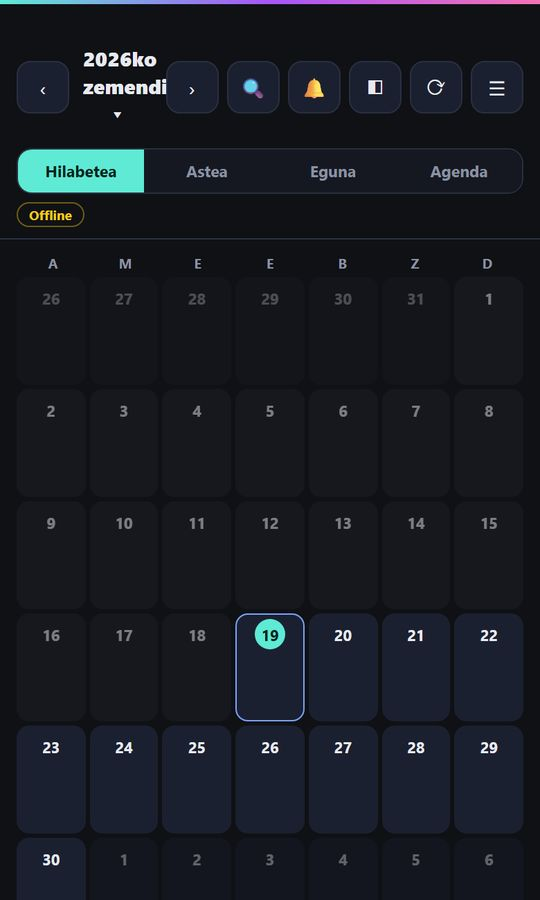
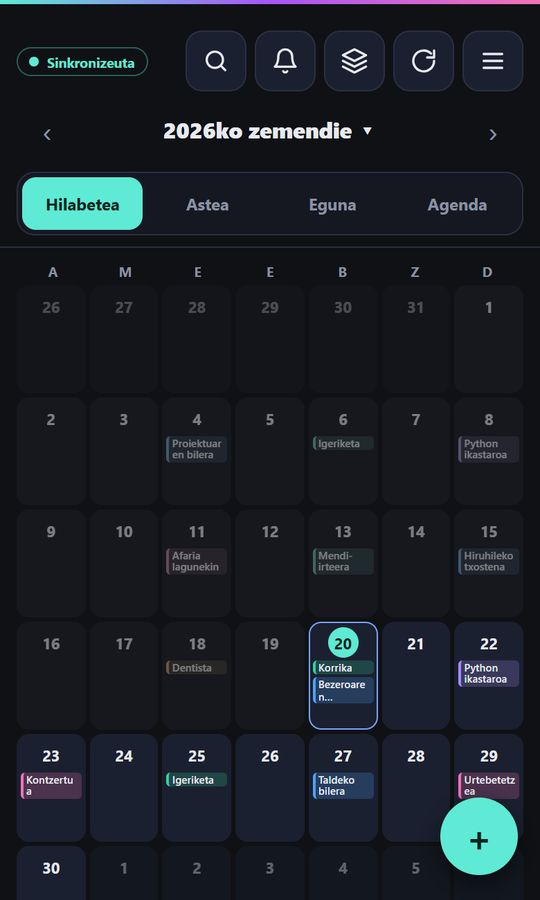
Site: app screens now show Ascension, Egutegie, Sutelagun, Entzungela and Zilundi with sample data

diff --git a/site/public/es/index.html b/site/public/es/index.html
@@ -87,7 +87,7 @@
 
 <section class="screens" id="screens" aria-labelledby="h-screens">
   <h2 class="sh rv" id="h-screens">Las aplicaciones, tal como se abren en el móvil</h2>
-  <ul class="scr-row rv" tabindex="0" aria-label="Pantallas de las aplicaciones, desplaza a los lados"><li class="scr"><a href="https://github.com/josu-bayer/begi-luze" aria-label="Begi Luze, Abrir el código"><picture><source type="image/webp" srcset="../img/aplikazioak/bl.webp"><img src="../img/aplikazioak/bl.jpg" width="540" height="900" alt="Begi Luze en el móvil, la vista de cartera con sus tres totales y la lista de posiciones vacía" loading="lazy" decoding="async"></picture><span class="scr-n">Begi Luze<span class="ar" aria-hidden="true"> ↗</span></span></a></li><li class="scr"><a href="https://github.com/josu-bayer/egutegie" aria-label="Egutegie, Abrir el código"><picture><source type="image/webp" srcset="../img/aplikazioak/egutegie.webp"><img src="../img/aplikazioak/egutegie.jpg" width="540" height="900" alt="Egutegie en el móvil, la vista mensual de noviembre de 2026 en euskera con el día de hoy marcado" loading="lazy" decoding="async"></picture><span class="scr-n">Egutegie<span class="ar" aria-hidden="true"> ↗</span></span></a></li><li class="scr"><a href="https://github.com/josu-bayer/ascension-system" aria-label="Ascension System, Abrir el código"><picture><source type="image/webp" srcset="../img/aplikazioak/ascension.webp"><img src="../img/aplikazioak/ascension.jpg" width="540" height="900" alt="Ascension System en el móvil, la pantalla de acceso azul oscuro titulada Identify Yourself" loading="lazy" decoding="async"></picture><span class="scr-n">Ascension System<span class="ar" aria-hidden="true"> ↗</span></span></a></li><li class="scr"><a href="https://github.com/josu-bayer/zerrenda" aria-label="Zerrenda, Abrir el código"><picture><source type="image/webp" srcset="../img/aplikazioak/zerrenda.webp"><img src="../img/aplikazioak/zerrenda.jpg" width="540" height="900" alt="Zerrenda en el móvil, la pantalla de la lista de la compra con sus pestañas y la lista vacía" loading="lazy" decoding="async"></picture><span class="scr-n">Zerrenda<span class="ar" aria-hidden="true"> ↗</span></span></a></li><li class="scr"><a href="https://github.com/josu-bayer/entzungela" aria-label="Entzungela, Abrir el código"><picture><source type="image/webp" srcset="../img/aplikazioak/entzungela.webp"><img src="../img/aplikazioak/entzungela.jpg" width="540" height="900" alt="Entzungela en el móvil, la pantalla de entrada a la biblioteca que pide una clave de acceso" loading="lazy" decoding="async"></picture><span class="scr-n">Entzungela<span class="ar" aria-hidden="true"> ↗</span></span></a></li></ul>
+  <ul class="scr-row rv" tabindex="0" aria-label="Pantallas de las aplicaciones, desplaza a los lados"><li class="scr"><a href="https://github.com/josu-bayer/ascension-system" aria-label="Ascension System, Abrir el código"><picture><source type="image/webp" srcset="../img/aplikazioak/ascension.webp"><img src="../img/aplikazioak/ascension.jpg" width="540" height="900" alt="Ascension System en el móvil, el panel de un cazador en el nivel 16 con sus cuatro estadísticas y parte de los ejercicios de hoy hechos" loading="lazy" decoding="async"></picture><span class="scr-n">Ascension System<span class="ar" aria-hidden="true"> ↗</span></span></a></li><li class="scr"><a href="https://github.com/josu-bayer/egutegie" aria-label="Egutegie, Abrir el código"><picture><source type="image/webp" srcset="../img/aplikazioak/egutegie.webp"><img src="../img/aplikazioak/egutegie.jpg" width="540" height="900" alt="Egutegie en el móvil, la vista mensual de noviembre de 2026 en euskera con eventos de ejemplo coloreados por tipo" loading="lazy" decoding="async"></picture><span class="scr-n">Egutegie<span class="ar" aria-hidden="true"> ↗</span></span></a></li><li class="scr"><a href="https://github.com/josu-bayer/sutelagun" aria-label="Sutelagun, Abrir el código"><picture><source type="image/webp" srcset="../img/aplikazioak/sutelagun.webp"><img src="../img/aplikazioak/sutelagun.jpg" width="540" height="900" alt="Sutelagun en el móvil, un día de dieta con las barras de calorías y proteína y dos comidas hechas" loading="lazy" decoding="async"></picture><span class="scr-n">Sutelagun<span class="ar" aria-hidden="true"> ↗</span></span></a></li><li class="scr"><a href="https://github.com/josu-bayer/entzungela" aria-label="Entzungela, Abrir el código"><picture><source type="image/webp" srcset="../img/aplikazioak/entzungela.webp"><img src="../img/aplikazioak/entzungela.jpg" width="540" height="900" alt="Entzungela en el móvil, una biblioteca de audiolibros de ejemplo con barras de progreso de escucha" loading="lazy" decoding="async"></picture><span class="scr-n">Entzungela<span class="ar" aria-hidden="true"> ↗</span></span></a></li><li class="scr"><picture><source type="image/webp" srcset="../img/aplikazioak/zilundi.webp"><img src="../img/aplikazioak/zilundi.jpg" width="540" height="900" alt="Zilundi en el móvil, la lista de películas vistas con fecha, nota y géneros" loading="lazy" decoding="async"></picture><span class="scr-n">Zilundi</span></li></ul>
 </section>
 
 <figure class="band" data-drift>

diff --git a/site/public/eu/index.html b/site/public/eu/index.html
@@ -87,7 +87,7 @@
 
 <section class="screens" id="screens" aria-labelledby="h-screens">
   <h2 class="sh rv" id="h-screens">Aplikazioak, mugikorrean irekitzean</h2>
-  <ul class="scr-row rv" tabindex="0" aria-label="Aplikazioen pantailak, alboetara korritu"><li class="scr"><a href="https://github.com/josu-bayer/begi-luze" aria-label="Begi Luze, Ireki kodea"><picture><source type="image/webp" srcset="../img/aplikazioak/bl.webp"><img src="../img/aplikazioak/bl.jpg" width="540" height="900" alt="Begi Luze mugikorrean, zorroaren ikuspegia hiru guztirekin eta posiziorik gabeko zerrendarekin" loading="lazy" decoding="async"></picture><span class="scr-n">Begi Luze<span class="ar" aria-hidden="true"> ↗</span></span></a></li><li class="scr"><a href="https://github.com/josu-bayer/egutegie" aria-label="Egutegie, Ireki kodea"><picture><source type="image/webp" srcset="../img/aplikazioak/egutegie.webp"><img src="../img/aplikazioak/egutegie.jpg" width="540" height="900" alt="Egutegie mugikorrean, 2026ko azaroaren hilabete-ikuspegia, gaurko eguna markatuta" loading="lazy" decoding="async"></picture><span class="scr-n">Egutegie<span class="ar" aria-hidden="true"> ↗</span></span></a></li><li class="scr"><a href="https://github.com/josu-bayer/ascension-system" aria-label="Ascension System, Ireki kodea"><picture><source type="image/webp" srcset="../img/aplikazioak/ascension.webp"><img src="../img/aplikazioak/ascension.jpg" width="540" height="900" alt="Ascension System mugikorrean, saioa hasteko pantaila urdin iluna, Identify Yourself izenburuarekin" loading="lazy" decoding="async"></picture><span class="scr-n">Ascension System<span class="ar" aria-hidden="true"> ↗</span></span></a></li><li class="scr"><a href="https://github.com/josu-bayer/zerrenda" aria-label="Zerrenda, Ireki kodea"><picture><source type="image/webp" srcset="../img/aplikazioak/zerrenda.webp"><img src="../img/aplikazioak/zerrenda.jpg" width="540" height="900" alt="Zerrenda mugikorrean, erosketa-zerrendaren pantaila fitxekin eta zerrenda hutsarekin" loading="lazy" decoding="async"></picture><span class="scr-n">Zerrenda<span class="ar" aria-hidden="true"> ↗</span></span></a></li><li class="scr"><a href="https://github.com/josu-bayer/entzungela" aria-label="Entzungela, Ireki kodea"><picture><source type="image/webp" srcset="../img/aplikazioak/entzungela.webp"><img src="../img/aplikazioak/entzungela.jpg" width="540" height="900" alt="Entzungela mugikorrean, liburutegirako sarrera-pantaila, sarbide-gakoa eskatzen duena" loading="lazy" decoding="async"></picture><span class="scr-n">Entzungela<span class="ar" aria-hidden="true"> ↗</span></span></a></li></ul>
+  <ul class="scr-row rv" tabindex="0" aria-label="Aplikazioen pantailak, alboetara korritu"><li class="scr"><a href="https://github.com/josu-bayer/ascension-system" aria-label="Ascension System, Ireki kodea"><picture><source type="image/webp" srcset="../img/aplikazioak/ascension.webp"><img src="../img/aplikazioak/ascension.jpg" width="540" height="900" alt="Ascension System mugikorrean, ehiztariaren panela 16. mailan, lau estatistikekin eta gaurko ariketa batzuk eginda" loading="lazy" decoding="async"></picture><span class="scr-n">Ascension System<span class="ar" aria-hidden="true"> ↗</span></span></a></li><li class="scr"><a href="https://github.com/josu-bayer/egutegie" aria-label="Egutegie, Ireki kodea"><picture><source type="image/webp" srcset="../img/aplikazioak/egutegie.webp"><img src="../img/aplikazioak/egutegie.jpg" width="540" height="900" alt="Egutegie mugikorrean, 2026ko azaroaren hilabete-ikuspegia, motaren arabera koloreztatutako adibide-gertaerekin" loading="lazy" decoding="async"></picture><span class="scr-n">Egutegie<span class="ar" aria-hidden="true"> ↗</span></span></a></li><li class="scr"><a href="https://github.com/josu-bayer/sutelagun" aria-label="Sutelagun, Ireki kodea"><picture><source type="image/webp" srcset="../img/aplikazioak/sutelagun.webp"><img src="../img/aplikazioak/sutelagun.jpg" width="540" height="900" alt="Sutelagun mugikorrean, dieta-eguna, kaloria- eta proteina-barrekin eta bi otordu eginda" loading="lazy" decoding="async"></picture><span class="scr-n">Sutelagun<span class="ar" aria-hidden="true"> ↗</span></span></a></li><li class="scr"><a href="https://github.com/josu-bayer/entzungela" aria-label="Entzungela, Ireki kodea"><picture><source type="image/webp" srcset="../img/aplikazioak/entzungela.webp"><img src="../img/aplikazioak/entzungela.jpg" width="540" height="900" alt="Entzungela mugikorrean, adibideko entzun-liburuen liburutegia, entzunaldiaren aurrerapen-barrekin" loading="lazy" decoding="async"></picture><span class="scr-n">Entzungela<span class="ar" aria-hidden="true"> ↗</span></span></a></li><li class="scr"><picture><source type="image/webp" srcset="../img/aplikazioak/zilundi.webp"><img src="../img/aplikazioak/zilundi.jpg" width="540" height="900" alt="Zilundi mugikorrean, ikusitako filmen zerrenda, data, puntuazio eta generoekin" loading="lazy" decoding="async"></picture><span class="scr-n">Zilundi</span></li></ul>
 </section>
 
 <figure class="band" data-drift>

diff --git a/site/public/index.html b/site/public/index.html
@@ -87,7 +87,7 @@
 
 <section class="screens" id="screens" aria-labelledby="h-screens">
   <h2 class="sh rv" id="h-screens">The apps, as they open on a phone</h2>
-  <ul class="scr-row rv" tabindex="0" aria-label="App screens, scroll sideways"><li class="scr"><a href="https://github.com/josu-bayer/begi-luze" aria-label="Begi Luze, Open the code"><picture><source type="image/webp" srcset="img/aplikazioak/bl.webp"><img src="img/aplikazioak/bl.jpg" width="540" height="900" alt="Begi Luze on a phone, the portfolio view with its three totals and an empty list of positions" loading="lazy" decoding="async"></picture><span class="scr-n">Begi Luze<span class="ar" aria-hidden="true"> ↗</span></span></a></li><li class="scr"><a href="https://github.com/josu-bayer/egutegie" aria-label="Egutegie, Open the code"><picture><source type="image/webp" srcset="img/aplikazioak/egutegie.webp"><img src="img/aplikazioak/egutegie.jpg" width="540" height="900" alt="Egutegie on a phone, a month view of November 2026 in Basque with today marked" loading="lazy" decoding="async"></picture><span class="scr-n">Egutegie<span class="ar" aria-hidden="true"> ↗</span></span></a></li><li class="scr"><a href="https://github.com/josu-bayer/ascension-system" aria-label="Ascension System, Open the code"><picture><source type="image/webp" srcset="img/aplikazioak/ascension.webp"><img src="img/aplikazioak/ascension.jpg" width="540" height="900" alt="Ascension System on a phone, the dark blue login screen titled Identify Yourself" loading="lazy" decoding="async"></picture><span class="scr-n">Ascension System<span class="ar" aria-hidden="true"> ↗</span></span></a></li><li class="scr"><a href="https://github.com/josu-bayer/zerrenda" aria-label="Zerrenda, Open the code"><picture><source type="image/webp" srcset="img/aplikazioak/zerrenda.webp"><img src="img/aplikazioak/zerrenda.jpg" width="540" height="900" alt="Zerrenda on a phone, the shopping list screen with its tabs and an empty list" loading="lazy" decoding="async"></picture><span class="scr-n">Zerrenda<span class="ar" aria-hidden="true"> ↗</span></span></a></li><li class="scr"><a href="https://github.com/josu-bayer/entzungela" aria-label="Entzungela, Open the code"><picture><source type="image/webp" srcset="img/aplikazioak/entzungela.webp"><img src="img/aplikazioak/entzungela.jpg" width="540" height="900" alt="Entzungela on a phone, the library entry screen that asks for an access key" loading="lazy" decoding="async"></picture><span class="scr-n">Entzungela<span class="ar" aria-hidden="true"> ↗</span></span></a></li></ul>
+  <ul class="scr-row rv" tabindex="0" aria-label="App screens, scroll sideways"><li class="scr"><a href="https://github.com/josu-bayer/ascension-system" aria-label="Ascension System, Open the code"><picture><source type="image/webp" srcset="img/aplikazioak/ascension.webp"><img src="img/aplikazioak/ascension.jpg" width="540" height="900" alt="Ascension System on a phone, a hunter&#x27;s dashboard at level 16 with four stats and some of today&#x27;s exercises done" loading="lazy" decoding="async"></picture><span class="scr-n">Ascension System<span class="ar" aria-hidden="true"> ↗</span></span></a></li><li class="scr"><a href="https://github.com/josu-bayer/egutegie" aria-label="Egutegie, Open the code"><picture><source type="image/webp" srcset="img/aplikazioak/egutegie.webp"><img src="img/aplikazioak/egutegie.jpg" width="540" height="900" alt="Egutegie on a phone, a month view of November 2026 in Basque with sample events coloured by type" loading="lazy" decoding="async"></picture><span class="scr-n">Egutegie<span class="ar" aria-hidden="true"> ↗</span></span></a></li><li class="scr"><a href="https://github.com/josu-bayer/sutelagun" aria-label="Sutelagun, Open the code"><picture><source type="image/webp" srcset="img/aplikazioak/sutelagun.webp"><img src="img/aplikazioak/sutelagun.jpg" width="540" height="900" alt="Sutelagun on a phone, a diet day with calorie and protein bars and two meals ticked off" loading="lazy" decoding="async"></picture><span class="scr-n">Sutelagun<span class="ar" aria-hidden="true"> ↗</span></span></a></li><li class="scr"><a href="https://github.com/josu-bayer/entzungela" aria-label="Entzungela, Open the code"><picture><source type="image/webp" srcset="img/aplikazioak/entzungela.webp"><img src="img/aplikazioak/entzungela.jpg" width="540" height="900" alt="Entzungela on a phone, a sample library of audiobooks with listening progress bars" loading="lazy" decoding="async"></picture><span class="scr-n">Entzungela<span class="ar" aria-hidden="true"> ↗</span></span></a></li><li class="scr"><picture><source type="image/webp" srcset="img/aplikazioak/zilundi.webp"><img src="img/aplikazioak/zilundi.jpg" width="540" height="900" alt="Zilundi on a phone, a list of watched films with dates, ratings and genres" loading="lazy" decoding="async"></picture><span class="scr-n">Zilundi</span></li></ul>
 </section>
 
 <figure class="band" data-drift>

diff --git a/site/content.py b/site/content.py
@@ -300,29 +300,30 @@ T["es"] = dict(
 )
 
 # ---------------------------------------------------------------- 2026-11-19: pantaila-argazkiak, SEO
-# Aplikazioen pantaila-argazkiak: id (irudiaren izena), repoa, izena, eta alt testua hizkuntzaka.
-# Argazkiak zuzeneko aplikazioetatik hartuak, datu-zerbitzuak blokeatuta, datu pertsonalik gabe.
+# Aplikazioen pantaila-argazkiak: id (irudiaren izena), repoa (None = repo publikorik ez, esteka barik),
+# izena, eta alt testua hizkuntzaka. Argazkiak aplikazioen kopietatik hartuak (2026-11-20), Firebase faltsu
+# batekin eta asmatutako datuekin, benetako Firestore-ra konexiorik gabe. Ez dago datu pertsonalik.
 SCREENS = [
-    dict(id="bl", repo="begi-luze", name="Begi Luze",
-         en="Begi Luze on a phone, the portfolio view with its three totals and an empty list of positions",
-         eu="Begi Luze mugikorrean, zorroaren ikuspegia hiru guztirekin eta posiziorik gabeko zerrendarekin",
-         es="Begi Luze en el móvil, la vista de cartera con sus tres totales y la lista de posiciones vacía"),
-    dict(id="egutegie", repo="egutegie", name="Egutegie",
-         en="Egutegie on a phone, a month view of November 2026 in Basque with today marked",
-         eu="Egutegie mugikorrean, 2026ko azaroaren hilabete-ikuspegia, gaurko eguna markatuta",
-         es="Egutegie en el móvil, la vista mensual de noviembre de 2026 en euskera con el día de hoy marcado"),
     dict(id="ascension", repo="ascension-system", name="Ascension System",
-         en="Ascension System on a phone, the dark blue login screen titled Identify Yourself",
-         eu="Ascension System mugikorrean, saioa hasteko pantaila urdin iluna, Identify Yourself izenburuarekin",
-         es="Ascension System en el móvil, la pantalla de acceso azul oscuro titulada Identify Yourself"),
-    dict(id="zerrenda", repo="zerrenda", name="Zerrenda",
-         en="Zerrenda on a phone, the shopping list screen with its tabs and an empty list",
-         eu="Zerrenda mugikorrean, erosketa-zerrendaren pantaila fitxekin eta zerrenda hutsarekin",
-         es="Zerrenda en el móvil, la pantalla de la lista de la compra con sus pestañas y la lista vacía"),
+         en="Ascension System on a phone, a hunter's dashboard at level 16 with four stats and some of today's exercises done",
+         eu="Ascension System mugikorrean, ehiztariaren panela 16. mailan, lau estatistikekin eta gaurko ariketa batzuk eginda",
+         es="Ascension System en el móvil, el panel de un cazador en el nivel 16 con sus cuatro estadísticas y parte de los ejercicios de hoy hechos"),
+    dict(id="egutegie", repo="egutegie", name="Egutegie",
+         en="Egutegie on a phone, a month view of November 2026 in Basque with sample events coloured by type",
+         eu="Egutegie mugikorrean, 2026ko azaroaren hilabete-ikuspegia, motaren arabera koloreztatutako adibide-gertaerekin",
+         es="Egutegie en el móvil, la vista mensual de noviembre de 2026 en euskera con eventos de ejemplo coloreados por tipo"),
+    dict(id="sutelagun", repo="sutelagun", name="Sutelagun",
+         en="Sutelagun on a phone, a diet day with calorie and protein bars and two meals ticked off",
+         eu="Sutelagun mugikorrean, dieta-eguna, kaloria- eta proteina-barrekin eta bi otordu eginda",
+         es="Sutelagun en el móvil, un día de dieta con las barras de calorías y proteína y dos comidas hechas"),
     dict(id="entzungela", repo="entzungela", name="Entzungela",
-         en="Entzungela on a phone, the library entry screen that asks for an access key",
-         eu="Entzungela mugikorrean, liburutegirako sarrera-pantaila, sarbide-gakoa eskatzen duena",
-         es="Entzungela en el móvil, la pantalla de entrada a la biblioteca que pide una clave de acceso"),
+         en="Entzungela on a phone, a sample library of audiobooks with listening progress bars",
+         eu="Entzungela mugikorrean, adibideko entzun-liburuen liburutegia, entzunaldiaren aurrerapen-barrekin",
+         es="Entzungela en el móvil, una biblioteca de audiolibros de ejemplo con barras de progreso de escucha"),
+    dict(id="zilundi", repo=None, name="Zilundi",
+         en="Zilundi on a phone, a list of watched films with dates, ratings and genres",
+         eu="Zilundi mugikorrean, ikusitako filmen zerrenda, data, puntuazio eta generoekin",
+         es="Zilundi en el móvil, la lista de películas vistas con fecha, nota y géneros"),
 ]
 
 EXTRA = {

diff --git a/site/build.py b/site/build.py
@@ -105,14 +105,15 @@ def page(lang):
             f'<img src="{A("img/" + izena + ".jpg")}" width="{w}" height="{h}" alt="{alt}" loading="lazy" decoding="async"{extra}></picture>'
         )
 
-    # aplikazioen pantailak
-    screens = "".join(
-        f'<li class="scr"><a href="{GH}{sc["repo"]}" aria-label="{e(sc["name"])}, {e(t["view_repo"])}">'
-        f'<picture><source type="image/webp" srcset="{A("img/aplikazioak/" + sc["id"] + ".webp")}">'
-        f'<img src="{A("img/aplikazioak/" + sc["id"] + ".jpg")}" width="540" height="900" alt="{e(sc[lang])}" loading="lazy" decoding="async"></picture>'
-        f'<span class="scr-n">{e(sc["name"])}{ARROW}</span></a></li>'
-        for sc in SCREENS
-    )
+    # aplikazioen pantailak (repo publikorik ez badago, esteka barik)
+    def scr(sc):
+        pic = (f'<picture><source type="image/webp" srcset="{A("img/aplikazioak/" + sc["id"] + ".webp")}">'
+               f'<img src="{A("img/aplikazioak/" + sc["id"] + ".jpg")}" width="540" height="900" alt="{e(sc[lang])}" loading="lazy" decoding="async"></picture>')
+        if not sc.get("repo"):
+            return f'<li class="scr">{pic}<span class="scr-n">{e(sc["name"])}</span></li>'
+        return (f'<li class="scr"><a href="{GH}{sc["repo"]}" aria-label="{e(sc["name"])}, {e(t["view_repo"])}">'
+                f'{pic}<span class="scr-n">{e(sc["name"])}{ARROW}</span></a></li>')
+    screens = "".join(scr(sc) for sc in SCREENS)
 
     mailto = f"mailto:{EMAIL}?subject={e(t['email_subject']).replace(' ', '%20')}"
     cr = t["contact_rows"]
